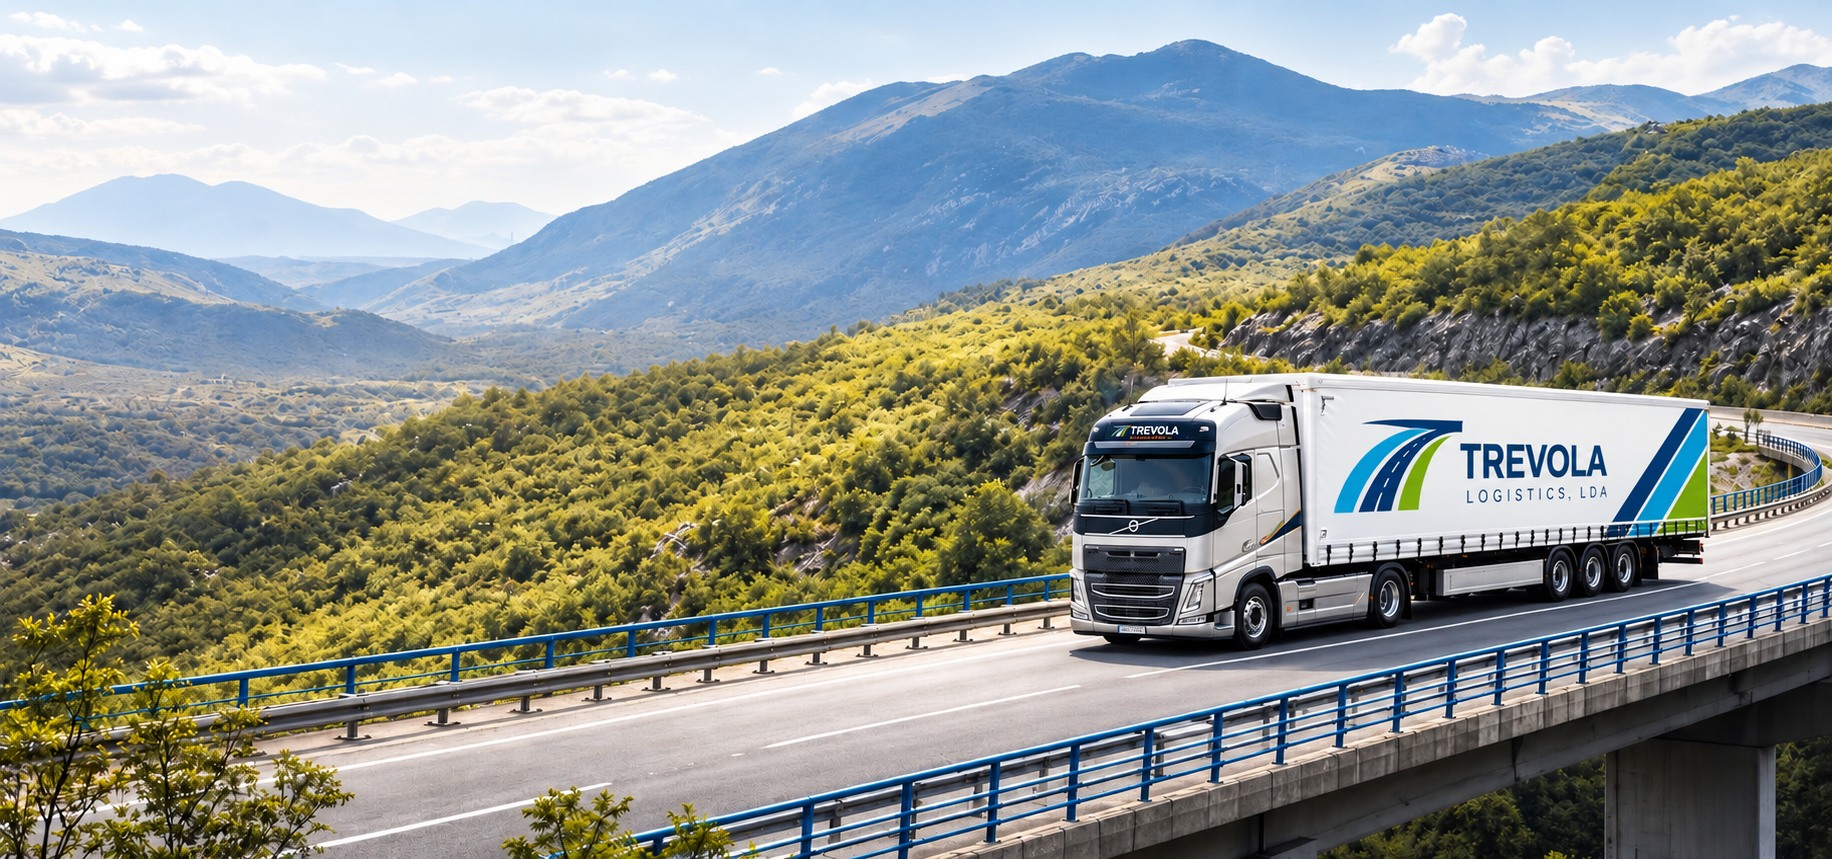
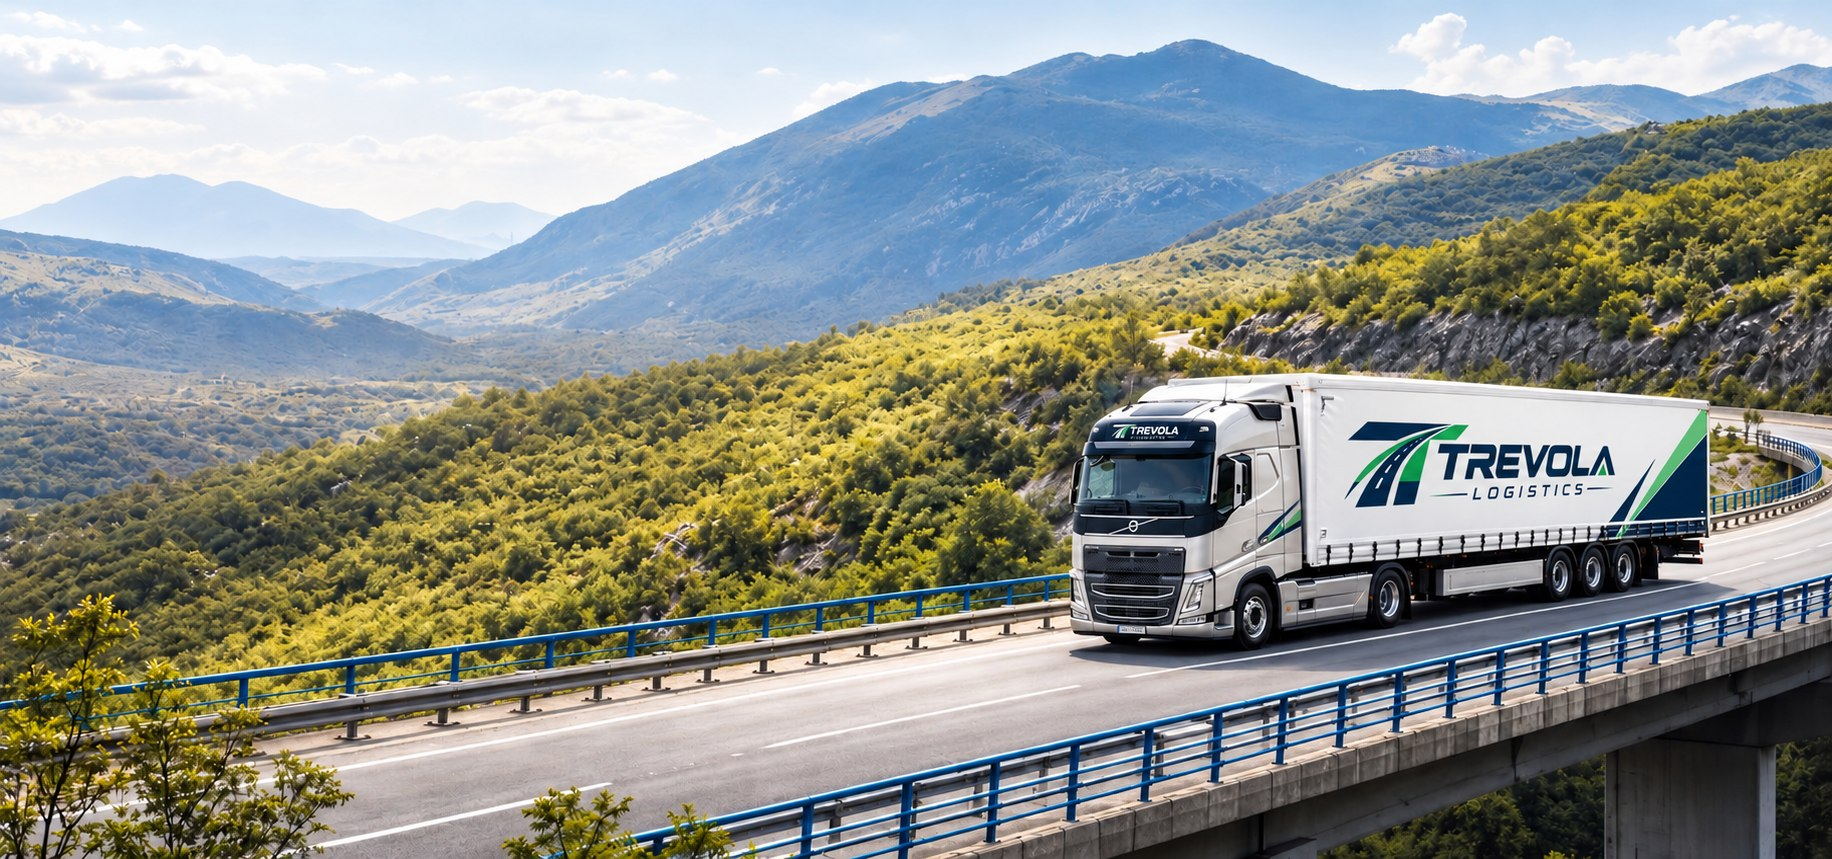
Complete Trevola website review and branding updates

diff --git a/src/pages.ts b/src/pages.ts
@@ -89,7 +89,7 @@ function mainContent() {
 
 function footer() {
   const links: PageId[]=['about-us','services','fleet','industries','request-a-quote','careers','news']
-  return '<section class="detail-cta"><div class="container detail-cta-inner"><div><span class="eyebrow eyebrow-light">' + copy.cta.eyebrow + '</span><h2>' + copy.cta.title + '</h2><p>' + copy.cta.text + '</p></div><div class="cta-actions"><a class="button button-primary" href="' + href('request-a-quote') + '">' + copy.cta.quote + ' ' + icon() + '</a><a class="button button-secondary" href="' + href('contact') + '">' + copy.cta.contact + '</a></div></div></section><footer class="footer"><div class="container footer-main"><div class="footer-brand-block"><a class="footer-brand" href="' + href('home') + '"><img src="' + logo + '" alt="Trevola Logistics" width="800" height="267" loading="lazy"></a><p>' + common.footerText + '</p></div><div class="footer-nav"><span>' + common.explore + '</span>' + links.map(id=>'<a href="' + href(id) + '">' + copy.nav[labels[id]] + '</a>').join('') + '</div><div class="footer-contact"><span>' + common.contact + '</span><a href="mailto:info@trevolalogistics.com">info@trevolalogistics.com</a><a href="tel:+351928338946">+351 928 338 946</a><span class="footer-licence">' + common.license + ' ' + common.licenseNumber + '</span></div></div><div class="container footer-bottom"><span>© ' + new Date().getFullYear() + ' Trevola Logistics. ' + common.rights + '</span><a href="' + href('privacy-policy') + '">' + copy.nav.privacy + '</a><a href="' + href('cookies') + '">' + copy.nav.cookies + '</a><a href="' + href('terms') + '">' + copy.nav.terms + '</a><a href="#page-main">' + common.backTop + ' ↑</a></div></footer><a class="whatsapp-float" href="https://wa.me/351962336946" target="_blank" rel="noopener noreferrer" aria-label="' + common.whatsappLabel + '" title="' + common.whatsappLabel + '">' + icon('whatsapp') + '</a><button class="back-top" type="button" aria-label="' + common.backTop + '">' + icon() + '</button>'
+  return '<section class="detail-cta"><div class="container detail-cta-inner"><div><span class="eyebrow eyebrow-light">' + copy.cta.eyebrow + '</span><h2>' + copy.cta.title + '</h2><p>' + copy.cta.text + '</p></div><div class="cta-actions"><a class="button button-primary" href="' + href('request-a-quote') + '">' + copy.cta.quote + ' ' + icon() + '</a><a class="button button-secondary" href="' + href('contact') + '">' + copy.cta.contact + '</a></div></div></section><footer class="footer"><div class="container footer-main"><div class="footer-brand-block"><a class="footer-brand" href="' + href('home') + '"><img src="' + logo + '" alt="Trevola Logistics" width="800" height="267" loading="lazy"></a><p>' + common.footerText + '</p></div><div class="footer-nav"><span>' + common.explore + '</span>' + links.map(id=>'<a href="' + href(id) + '">' + copy.nav[labels[id]] + '</a>').join('') + '</div><div class="footer-contact"><span>' + common.contact + '</span><a href="mailto:info@trevolalogistics.com">info@trevolalogistics.com</a><a href="tel:+351928338946">+351 928 338 946</a><span class="footer-licence">' + common.license + ' ' + common.licenseNumber + '</span></div></div><div class="container footer-bottom"><span>© ' + new Date().getFullYear() + ' Trevola Logistics. ' + common.rights + '</span><a href="' + href('privacy-policy') + '">' + copy.nav.privacy + '</a><a href="' + href('cookies') + '">' + copy.nav.cookies + '</a><a href="' + href('terms') + '">' + copy.nav.terms + '</a><a href="#page-main">' + common.backTop + ' ↑</a></div></footer><a class="whatsapp-float" href="https://wa.me/351928338946" target="_blank" rel="noopener noreferrer" aria-label="' + common.whatsappLabel + '" title="' + common.whatsappLabel + '">' + icon('whatsapp') + '</a><button class="back-top" type="button" aria-label="' + common.backTop + '">' + icon() + '</button>'
 }
 
 function setupSearch(app: HTMLElement) {

diff --git a/src/main.ts b/src/main.ts
@@ -210,7 +210,7 @@ function render() {
     </main>
 
     <footer class="footer"><div class="container footer-main"><div class="footer-brand-block"><a class="footer-brand" href="index.html" aria-label="${t('homeLabel')}"><img src="${logo}" alt="Trevola Logistics" width="800" height="267" decoding="async"></a><p>${t('footerText')}</p></div><div class="footer-nav"><span>${t('footerExplore')}</span><a href="about-us.html">${t('navAbout')}</a><a href="services.html">${t('navServices')}</a><a href="fleet.html">${t('navNetwork')}</a><a href="industries.html">${t('navWhy')}</a><a href="contact.html">${t('navContact')}</a></div><div class="footer-contact"><span>${t('footerContact')}</span><a href="mailto:info@trevolalogistics.com">info@trevolalogistics.com</a><a href="tel:+351928338946">+351 928 338 946</a><a href="https://www.trevolalogistics.com" target="_blank" rel="noopener noreferrer">www.trevolalogistics.com</a></div></div><div class="container footer-bottom"><span>© ${new Date().getFullYear()} Trevola Logistics. ${t('footerRights')}</span><a href="#home">${t('backTop')} ↑</a></div></footer>
-    <a class="whatsapp-float" href="https://wa.me/351962336946" target="_blank" rel="noopener noreferrer" aria-label="${t('whatsappLabel')}" title="${t('whatsappLabel')}">${icon('whatsapp')}</a>
+    <a class="whatsapp-float" href="https://wa.me/351928338946" target="_blank" rel="noopener noreferrer" aria-label="${t('whatsappLabel')}" title="${t('whatsappLabel')}">${icon('whatsapp')}</a>
     <button class="back-top" type="button" aria-label="${t('backTop')}" title="${t('backTop')}">${icon('arrow')}</button>
   `
 

diff --git a/src/style.css b/src/style.css
@@ -447,27 +447,3 @@ button { color: inherit; }
 .footer-bottom a:focus-visible, .search-trigger:focus-visible, .search-close:focus-visible, .site-search-dialog input:focus-visible { outline: 3px solid var(--orange); outline-offset: 3px; }
 .quote-form-status[data-state="error"] { color: #7d241b; border-color: #e6b5ad; background: #fff4f2; }
 .quote-form-status[data-state="error"]:focus { outline-color: #ba4639; }
-
-/* Small brand refinements: calmer typography and more natural surfaces. */
-.hero-shade {
-  background: linear-gradient(90deg, rgba(6,20,29,.82) 0%, rgba(7,23,33,.64) 43%, rgba(9,28,39,.12) 100%),
-    linear-gradient(0deg, rgba(5,18,26,.3), transparent 48%);
-}
-.hero h1 {
-  font-weight: 590;
-  letter-spacing: -.045em;
-  line-height: 1.06;
-}
-.hero-copy > p { max-width: 500px; line-height: 1.75; }
-.eyebrow { letter-spacing: .12em; }
-.about-copy h2, .section-heading h2, .contact h2 {
-  font-weight: 590;
-  letter-spacing: -.04em;
-  line-height: 1.12;
-}
-.button, .nav-cta { border-radius: 2px; }
-.service-card, .why-card, .industry-home-card, .contact-card {
-  border-radius: 3px;
-}
-.network-feature { border-radius: 3px; }
-.visual-caption { box-shadow: 0 8px 24px rgba(17,39,54,.09); }

diff --git a/PROJECT-AUDIT.md b/PROJECT-AUDIT.md
@@ -1,34 +1,34 @@
-# Revisão do projeto Trevola Logistics
+# Revisão do website Trevola Logistics
 
 ## Alterações aplicadas
 
-- Atualizada a paleta para azul-marinho, azul e ciano, com detalhes verdes e menos tons laranja; logótipo, fotografias, estrutura e composição das páginas foram mantidos.
-- Ativado o botão WhatsApp em todas as páginas, com o destino `https://wa.me/351962336946`, abertura em novo separador e `rel="noopener noreferrer"`.
-- Corrigidos os textos em inglês que apareciam na chamada final da página inicial em português.
-- Traduzidos os rótulos das opções de transporte, o número do alvará e o nome acessível do botão WhatsApp nos idiomas disponíveis.
-- Removidos o contador de demonstração e os logótipos Vite/TypeScript sem referências no projeto.
+- Atualizados os botões WhatsApp da página inicial e das páginas internas para `https://wa.me/351928338946`.
+- Alinhado o logótipo do cabeçalho e rodapé com a referência azul e verde, incluindo uma versão otimizada a 800 × 267 px.
+- Atualizadas as fotografias principais da frota e a imagem Open Graph para usar o novo grafismo nos camiões.
+- Atualizado o favicon para a paleta azul-marinho e verde.
+- Removidos ficheiros de arranque e imagens antigas sem referências no código: contador de demonstração, logótipos Vite/TypeScript e imagens originais duplicadas do logo e da frota.
 
-## Verificações
+## Verificações efetuadas
 
-- `npm run build`: concluído sem erros de TypeScript ou Vite.
-- Função de orçamento: verificados método HTTP, rejeição de origem externa, validação de pedido inválido e resposta de configuração ausente.
-- Build estático: 48 rotas localizadas (12 páginas em inglês, português, francês e alemão), 48 entradas no sitemap e nenhuma referência local a asset em falta.
-- Links externos com `target="_blank"` incluem `rel="noopener noreferrer"`.
-- A configuração Vercel existente continua a usar `npm run build`, saída `dist`, cabeçalhos de segurança e a função `api/request-quote.js`.
+- `npm run build`: compilação TypeScript, build Vite e geração de páginas concluídas sem erros.
+- Build gerou 61 documentos HTML, incluindo 48 páginas localizadas, e o sitemap contém 48 URLs localizadas.
+- Pesquisa na build final não encontrou o número antigo nem links WhatsApp com destinos inesperados; o destino novo está presente nos bundles.
+- Testes diretos da função de orçamento: método não permitido (405), origem externa (403), tipo de conteúdo incorreto (415), JSON inválido (400), dados incompletos (400) e honeypot (202) tiveram as respostas esperadas.
+- Os links externos identificados com `target="_blank"` incluem `rel="noopener noreferrer"`.
+- Vite processou todas as importações de imagens e estilos usados na build.
 
-## Limitações a resolver antes de lançar
+## Estado de publicação e serviços
 
-- O envio efetivo do formulário exige `RESEND_API_KEY` e `RESEND_FROM_EMAIL` configurados nas variáveis de ambiente da Vercel e um remetente validado no Resend. Sem estas credenciais, o endpoint responde que o envio não está configurado.
-- Não foram encontrados endereços oficiais de LinkedIn ou Facebook no projeto; não foram inventados links.
-- O website é Vite + TypeScript sem React. A compatibilidade React não se aplica ao código atual.
-- O site estático pode ser servido pela Cloudflare, mas a função de email usa o formato da Vercel. Para executar o formulário em Cloudflare Pages, será necessária uma função equivalente em Cloudflare Pages Functions.
-- Não foi possível executar `npm ci`: o ambiente não conseguiu alcançar `registry.npmjs.org`. O build passou com as dependências já instaladas no ambiente.
-- O browser isolado não conseguiu aceder ao servidor local de preview, por restrições de socket do ambiente. Assim, o comportamento foi verificado por build e auditorias estáticas/da função; não se declara um teste visual completo em Chrome, Edge, Firefox, Safari ou dispositivos físicos.
-- As páginas legais ainda contêm dados de exemplo que devem ser revistos pela empresa antes de publicação.
+- A Vercel liga o projeto `trevola-logistics` ao repositório público `AndVlas27/trevola-logistics` e associa `www.trevolalogistics.com` à produção; o domínio sem `www` redireciona com HTTP 308.
+- A Resend mostra `trevolalogistics.com` como verificado, com DKIM e ambos os registos SPF verificados.
+- As variáveis partilhadas `RESEND_API_KEY` e `RESEND_FROM_EMAIL` aparecem associadas ao projeto `trevola-logistics` em Production e Preview. Os valores são secretos e não foram lidos; confirme que a chave é a nova chave criada após a rotação da chave exposta e que o remetente está autorizado na Resend.
+- A Cloudflare mostra o DNS como completo. Os registos do domínio raiz e `www` apontam para a Vercel em modo apenas DNS; os registos MX e de email Zoho foram preservados.
+- As alterações do website ainda não foram publicadas. O repositório GitHub continha uma versão anterior; foi obtida uma cópia limpa para integrar a revisão.
 
-## Sugestões não aplicadas
+## Pontos a confirmar antes da publicação
 
-- Adicionar os URLs oficiais das redes sociais quando forem fornecidos.
-- Fazer a revisão visual em browsers e dispositivos reais depois do deployment de preview.
-- Se escolher Cloudflare Pages em vez de Vercel, adaptar e testar a função de orçamento para o runtime Cloudflare.
-- Completar e validar as páginas legais com a entidade jurídica, morada, retenção de dados e jurisdição aplicável.
+- O envio real de pedidos de orçamento depende de valores corretos para `RESEND_API_KEY` e `RESEND_FROM_EMAIL`. Os nomes e a associação ao projeto foram confirmados; os valores não podem ser verificados porque são secretos. Após publicação, deve ser enviado um pedido de teste e confirmada a entrega.
+- As páginas de privacidade e termos identificam-se como modelos por completar. Antes de as apresentar como páginas finais, a empresa deve fornecer e validar denominação social, morada, prazo de conservação, fornecedor e práticas de tratamento, e lei/jurisdição aplicáveis.
+- Não foram fornecidos URLs oficiais de redes sociais, por isso não foram inventados.
+- A versão de pré-visualização local não abriu no browser isolado desta sessão; não foi possível fazer uma verificação visual interativa em browsers ou dispositivos reais.
+- A pasta de trabalho não continha metadados Git. A integração com o repositório GitHub está em preparação; não foi feita publicação de produção.

diff --git a/PUBLICATION.md b/PUBLICATION.md
@@ -124,13 +124,14 @@ variantes localizadas no build.
 
 ## Ações externas pendentes
 
-- Criar/selecionar o projeto e ligar o repositório na conta Vercel.
-- Adicionar `trevolalogistics.com` e `www.trevolalogistics.com` nas definições do
-  projeto.
-- Atualizar os registos DNS no fornecedor autoritativo; os valores finais só
-  aparecem no painel Vercel depois de associar o domínio.
-- Aguardar verificação e emissão automática do SSL pela Vercel.
-- Inserir as credenciais Resend em variáveis de ambiente Vercel, se o formulário
-  tiver de enviar pedidos por email.
-- Rever os modelos legais com os dados e práticas reais da empresa antes de
-  disponibilizar as páginas legais ao público.
+- O projeto da Vercel está ligado ao repositório GitHub; os domínios `www` e raiz
+  estão configurados e a zona DNS Cloudflare aparece completa.
+- A Resend confirma o domínio como verificado. As variáveis `RESEND_API_KEY` e
+  `RESEND_FROM_EMAIL` estão ligadas ao projeto em Production e Preview. Como os
+  valores são secretos, confirme que a chave nova foi usada e que o remetente
+  corresponde a um endereço autorizado na Resend.
+- Fazer um deployment de preview a partir das alterações e testar o formulário
+  com um pedido real, confirmando a entrega à caixa configurada.
+- Rever e completar os modelos legais antes de os apresentar como documentos
+  finais: falta validar denominação social, morada, prazo de conservação,
+  fornecedores/práticas reais de tratamento e lei/jurisdição aplicáveis.
